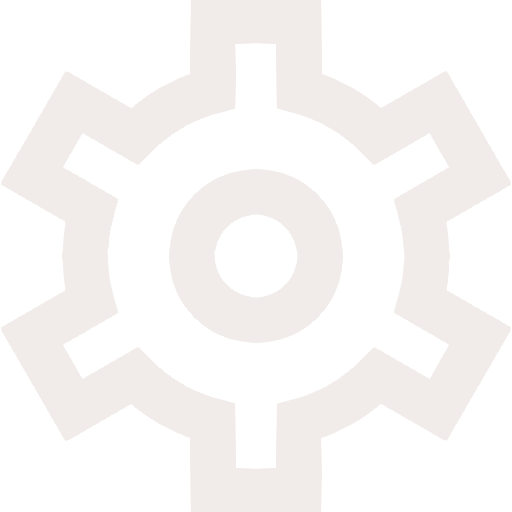
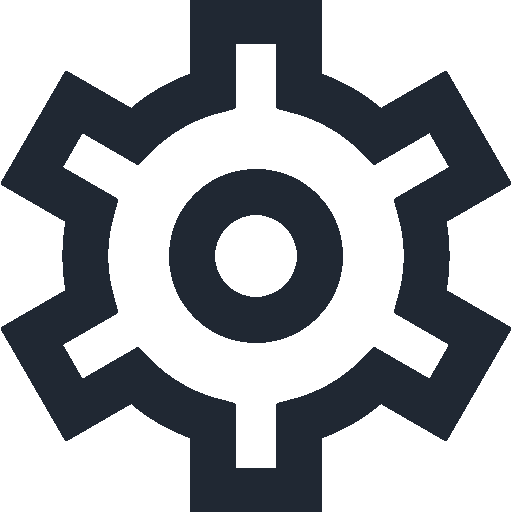
feat: add settings button, auto play option (#73)
* feat: add autoplay, add settings to panel

* fix: fix non-persistent settings bug using useRef

* edit: remove unnecessary lines

* fix: fix tickrate of timer

* edit: Update src/components/Pomodoro.tsx

* edit: Update src/components/Pomodoro.tsx

* edit: Update src/components/Pomodoro.tsx

* edit: Update src/pages/Options/Options.tsx

---------

diff --git a/src/components/Pomodoro.tsx b/src/components/Pomodoro.tsx
@@ -18,9 +18,14 @@ const Pomodoro: React.FC = () => {
   const isPausedRef = useRef(isPaused);
   const modeRef = useRef(mode);
   const secondsLeftRef = useRef(secondsLeft);
+  const settingsRef = useRef(settings);
 
   const clickSound = new Audio(click);
   const ringSound = new Audio(ring);
+
+  useEffect(() => {
+    settingsRef.current = settings;
+  }, [settings]);
 
   useEffect(() => {
     const fetchData = async () => {
@@ -53,8 +58,11 @@ const Pomodoro: React.FC = () => {
       }
       if (secondsLeftRef.current === 0) {
         playSound(ringSound);
-        setIsPaused(true);
-        isPausedRef.current = true;
+        if (!settingsRef.current.autoPlay){
+          setIsPaused(true);
+          isPausedRef.current = true;
+        }
+        
         return switchMode();
       }
       tick();
@@ -84,17 +92,24 @@ const Pomodoro: React.FC = () => {
   function switchMode() {
     const nextMode: string = modeRef.current === 'work' ? 'break' : 'work';
     const nextSeconds: number =
-      (nextMode === 'work' ? settings.workTime : settings.breakTime) * 60;
+      (nextMode === 'work' ? settingsRef.current.workTime : settingsRef.current.breakTime) * 60;
 
     setMode(nextMode);
     modeRef.current = nextMode;
 
+    console.log(`Next is ${nextSeconds}`)
     setSecondsLeft(nextSeconds);
     secondsLeftRef.current = nextSeconds;
 
     //change color of timer circle to default
     const timerDiv = document.querySelector('.timer') as HTMLDivElement;
-    timerDiv.style.border = '4px solid #f1ece9';
+    if (!settingsRef.current.autoPlay){
+      timerDiv.style.border = '4px solid #f1ece9';
+    }
+    else{
+      timerDiv.style.border = modeRef.current === 'work' ? '4px solid #e63946' : '4px solid #2a9d8f';
+    }
+    
   }
 
   function playSound(sound: HTMLAudioElement) {
@@ -113,8 +128,13 @@ const Pomodoro: React.FC = () => {
       <div className="timer">
         <div className="timer-header">
           {minutes}:{seconds}
-        </div>
+        </div>      
       </div>
+
+      <div className="pomodoro-settings">
+        <button onClick={() => {chrome.runtime.openOptionsPage()}} id="settings-button" className="pomodoro-button"></button>
+      </div>
+
       <div className="buttons">
         {isPaused ? (
           <button
@@ -149,8 +169,11 @@ const Pomodoro: React.FC = () => {
           onClick={() => {
             playSound(clickSound);
             if (!isInitialized) return;
-            setIsPaused(true);
-            isPausedRef.current = true;
+            
+            if (!settingsRef.current.autoPlay){
+              setIsPaused(true);
+              isPausedRef.current = true;
+            }
             switchMode();
             console.log(`Timer reset to ${secondsLeftRef.current}`);
           }}

diff --git a/src/pages/Options/Options.tsx b/src/pages/Options/Options.tsx
@@ -195,6 +195,27 @@ const Options: React.FC<Props> = ({ title }: Props) => {
           {settings.pomodoro.volume}
         </output>
       </div>
+      
+      <div>
+        <input
+          type="checkbox"
+          id="autoplay"
+          checked = {settings.pomodoro.autoPlay}
+          onClick = {() => {
+              setSettings({
+                ...settings,
+                pomodoro: {
+                  ...settings.pomodoro,
+                  autoPlay: !settings.pomodoro.autoPlay,
+                },
+              })
+            }
+          }
+        />
+        <label htmlFor="autoplay">Enable Autoplay</label>
+      </div>
+      
+
       <div className="error-message">{errorMessage}</div>
       <div className="status-message">{status}</div>
       <button onClick={saveSettings}>Save</button>

diff --git a/src/pages/Panel/Panel.css b/src/pages/Panel/Panel.css
@@ -13,6 +13,26 @@
   padding-bottom: 30px;
 }
 
+.pomodoro-settings {
+  position: absolute;
+  top: 12px;
+  right: 10px;
+
+  #settings-button {
+    background: url(../../assets/img/settings.png);
+    background-repeat: no-repeat;
+    background-size: contain;
+    background-position: center;
+    cursor: pointer;
+  }
+
+  .pomodoro-button {
+    border: none;
+    width: 12.5px;
+    height: 12.5px;
+  }
+}
+
 .timer-container {
   background-color: #202833;
   width: 100%;

diff --git a/src/types.ts b/src/types.ts
@@ -9,6 +9,8 @@ export interface Settings {
     workTime: number;
     breakTime: number;
     volume: number;
+    autoPlay: boolean;
+    longBreak: boolean;
   };
 }
 

diff --git a/src/constants.ts b/src/constants.ts
@@ -5,6 +5,8 @@ export const defaultSettings: Settings = {
     workTime: 25,
     breakTime: 5,
     volume: 100,
+    autoPlay: false,
+    longBreak: false
   },
 };
 
